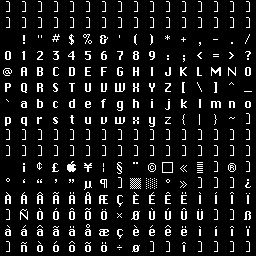
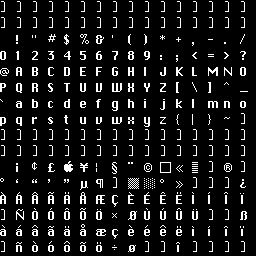
fix: left-align glyphs in font_atlas tool; regenerate ChiKareGo2.png; fix full_cell draw_w
Agent-Logs-Url: https://github.com/corepunch/orion-ui/sessions/3f4d44d6-11ea-4074-b8fe-718eb04b29d3

Changed region(s): [[0.0, 0.0, 1.0, 1.0], [0.75, 0.1562, 0.7812, 0.3438], [0.0, 0.6875, 0.0312, 0.7188]]

diff --git a/tools/font_atlas.c b/tools/font_atlas.c
@@ -64,7 +64,7 @@ static void print_help(const char* prog)
         "  -smooth                 Keep anti-aliased output (default)\n"
         "\n"
         "  Layout\n"
-        "  -nocenter               Don't centre glyph horizontally in cell\n"
+        "  -center                 Centre glyph horizontally in cell (default: left-aligned)\n"
         "  -nobaseline             Top-align instead of baseline-align\n"
         "  -first=N                First codepoint to rasterise (default %d)\n"
         "  -num=N                  Number of codepoints (default %d)\n"
@@ -176,7 +176,7 @@ int main(int argc, char** argv)
         .sharp        = 0,
         .threshold    = DEFAULT_THRESHOLD,
         .em_scale     = 0,
-        .center_x     = 1,
+        .center_x     = 0,
         .baseline_align = 1,
         .first_char   = DEFAULT_FIRST_CHAR,
         .num_chars    = DEFAULT_NUM_CHARS,
@@ -193,7 +193,7 @@ int main(int argc, char** argv)
         else if (!strcmp(a,"-sharp"))        o.sharp = 1;
         else if (!strcmp(a,"-smooth"))       o.sharp = 0;
         else if (!strcmp(a,"-em"))           o.em_scale = 1;
-        else if (!strcmp(a,"-nocenter"))     o.center_x = 0;
+        else if (!strcmp(a,"-center"))       o.center_x = 1;
         else if (!strcmp(a,"-nobaseline"))   o.baseline_align = 0;
         else if (!strcmp(a,"-invert"))       o.invert = 1;
         else if (!strcmp(a,"-rgba"))         o.rgba = 1;
@@ -305,7 +305,7 @@ int main(int argc, char** argv)
 
         int cell_x = cell_col * o.cell_w;
         int cell_y = cell_row * o.cell_h;
-        int draw_x = o.center_x     ? cell_x + (o.cell_w - bw) / 2 : cell_x + x0;
+        int draw_x = o.center_x ? cell_x + (o.cell_w - bw) / 2 : cell_x;
         int draw_y = o.baseline_align ? cell_y + baseline + y0      : cell_y;
 
         for (int y = 0; y < bh; y++) {

diff --git a/user/text.c b/user/text.c
@@ -184,9 +184,11 @@ static bool load_atlas(font_atlas_t *atlas, glyph_metrics_t *met,
       int idx = c - fi.first_char;
       uint8_t adv = glyphs[idx].advance;   // use local var; same ptr as fi.glyphs
       if (full_cell) {
-        met->x0[c]     = 0;
-        met->draw_w[c] = (uint8_t)cell_w;
-        met->advance[c] = adv ? adv : (uint8_t)cell_w;
+        // Glyphs are left-aligned in their cells; draw quad is advance-wide so
+        // characters don't overlap, and we only sample the glyph's own pixels.
+        met->x0[c]      = 0;
+        met->draw_w[c]  = adv ? adv : (uint8_t)cell_w;
+        met->advance[c] = met->draw_w[c];
       } else {
         scan_cell_metrics(red, img_w, cx0, cy0, cell_w, cell_h,
                           &met->x0[c], &met->draw_w[c], &met->advance[c]);
@@ -195,7 +197,6 @@ static bool load_atlas(font_atlas_t *atlas, glyph_metrics_t *met,
     } else {
       // No foNT — scan pixels
       if (full_cell) {
-        // For full-cell mode without metadata, use fixed cell width
         met->x0[c]      = 0;
         met->draw_w[c]  = (uint8_t)cell_w;
         met->advance[c] = (uint8_t)cell_w;
